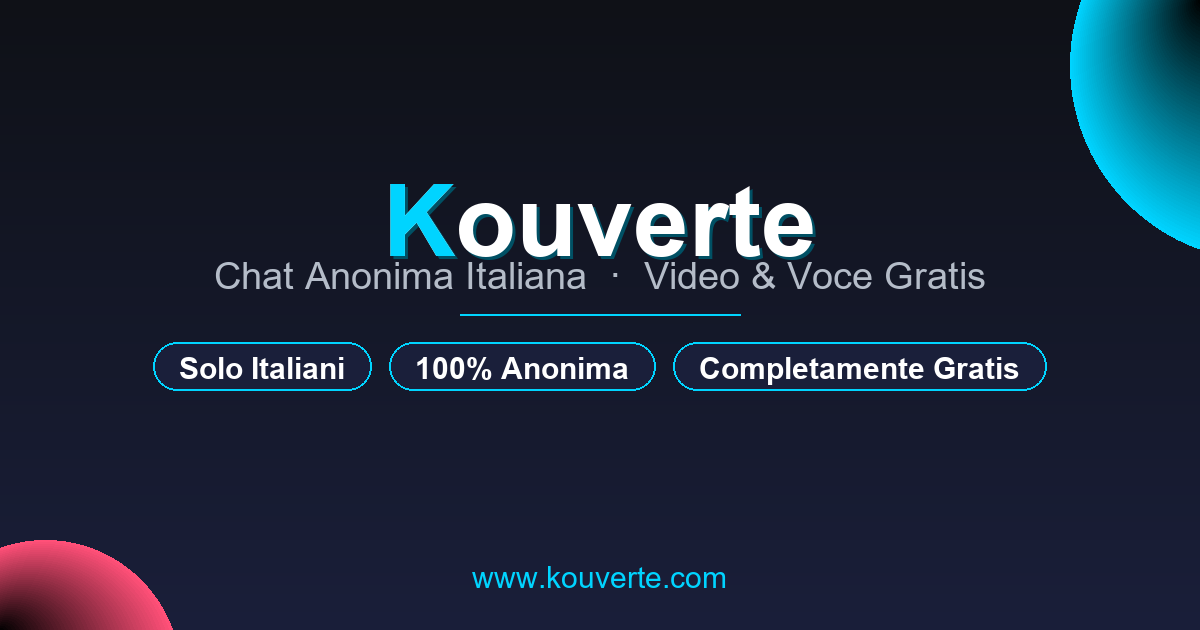
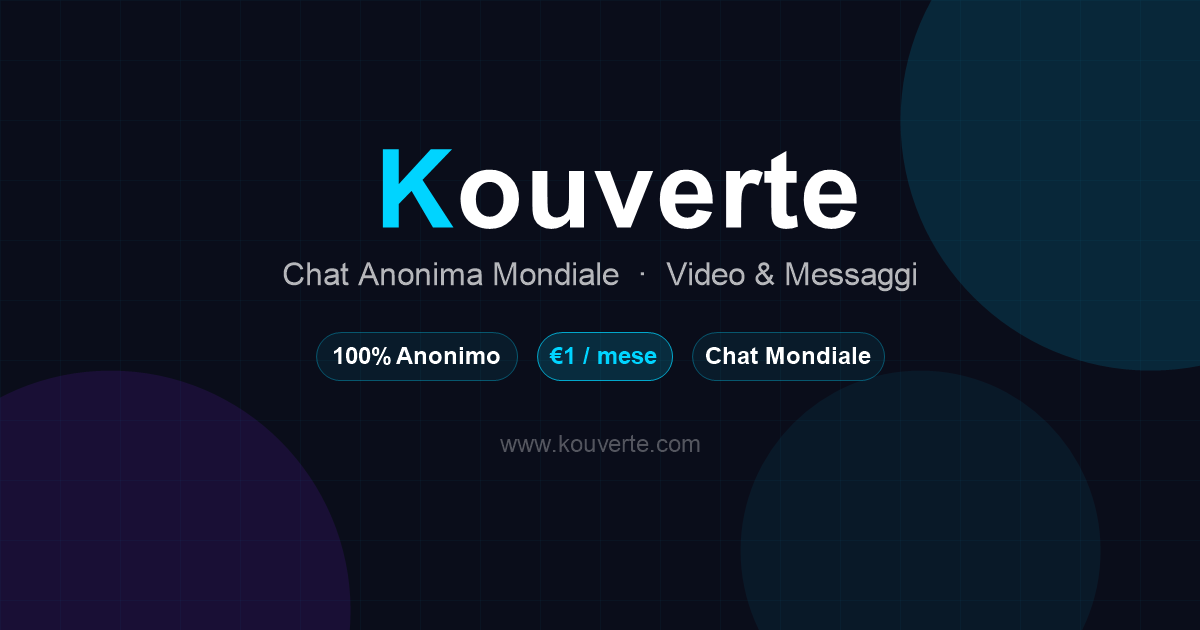
fix: update og-image and meta tags with current branding
- New og-image.png: 'Chat Anonima Mondiale', '€1/mese', '100% Anonimo'
  (replaces old 'Completamente Gratis / Solo Italiani / Video & Voce Gratis')
- Updated <title> to 'Chat Anonima Mondiale con Video | 100% Anonimo'
- Updated og:title, og:description, meta description (removed 'italiana', 'gratis')
- Added ?v=2 cache-buster to og:image URLs to force social re-fetch

diff --git a/index.html b/index.html
@@ -3,18 +3,18 @@
 <head>
 <meta charset="UTF-8">
 <meta name="viewport" content="width=device-width, initial-scale=1.0">
-<title>Kouverte — Chat Anonima Italiana con Video | Gratis, Niente Registrazione</title>
-<meta name="description" content="Kouverte è la chat anonima italiana con video HD. Entra in stanze per città, chatta senza registrazione, attiva la webcam solo quando vuoi. 100% anonimo. Abbonamento da €1/mese.">
+<title>Kouverte — Chat Anonima Mondiale con Video | 100% Anonimo</title>
+<meta name="description" content="Kouverte è la chat anonima mondiale con video HD. Entra in stanze per città, chatta in modo completamente anonimo, attiva la webcam solo quando vuoi. €1/mese, pagabile in Bitcoin.">
 <meta name="robots" content="index, follow, max-snippet:-1, max-image-preview:large">
 <link rel="canonical" href="https://www.kouverte.com/">
 <meta property="og:type" content="website">
-<meta property="og:title" content="Kouverte — Chat Anonima Italiana">
-<meta property="og:description" content="Chat anonima con video HD. Stanze per città. Gratis.">
+<meta property="og:title" content="Kouverte — Chat Anonima Mondiale">
+<meta property="og:description" content="Chat anonima mondiale con video HD. Stanze per città, 100% anonimo. €1/mese in Bitcoin.">
 <meta property="og:url" content="https://www.kouverte.com/">
-<meta property="og:image" content="https://www.kouverte.com/og-image.png">
+<meta property="og:image" content="https://www.kouverte.com/og-image.png?v=2">
 <meta property="og:locale" content="it_IT">
 <meta name="twitter:card" content="summary_large_image">
-<meta name="twitter:image" content="https://www.kouverte.com/og-image.png">
+<meta name="twitter:image" content="https://www.kouverte.com/og-image.png?v=2">
 <script async src="https://www.googletagmanager.com/gtag/js?id=G-KR50WJ2TKY"></script>
 <script>window.dataLayer=window.dataLayer||[];function gtag(){dataLayer.push(arguments);}gtag('js',new Date());gtag('config','G-KR50WJ2TKY',{page_title:'Landing Page',send_page_view:true});</script>
 <script src="https://t.contentsquare.net/uxa/7e4574ca0b822.js" async></script>